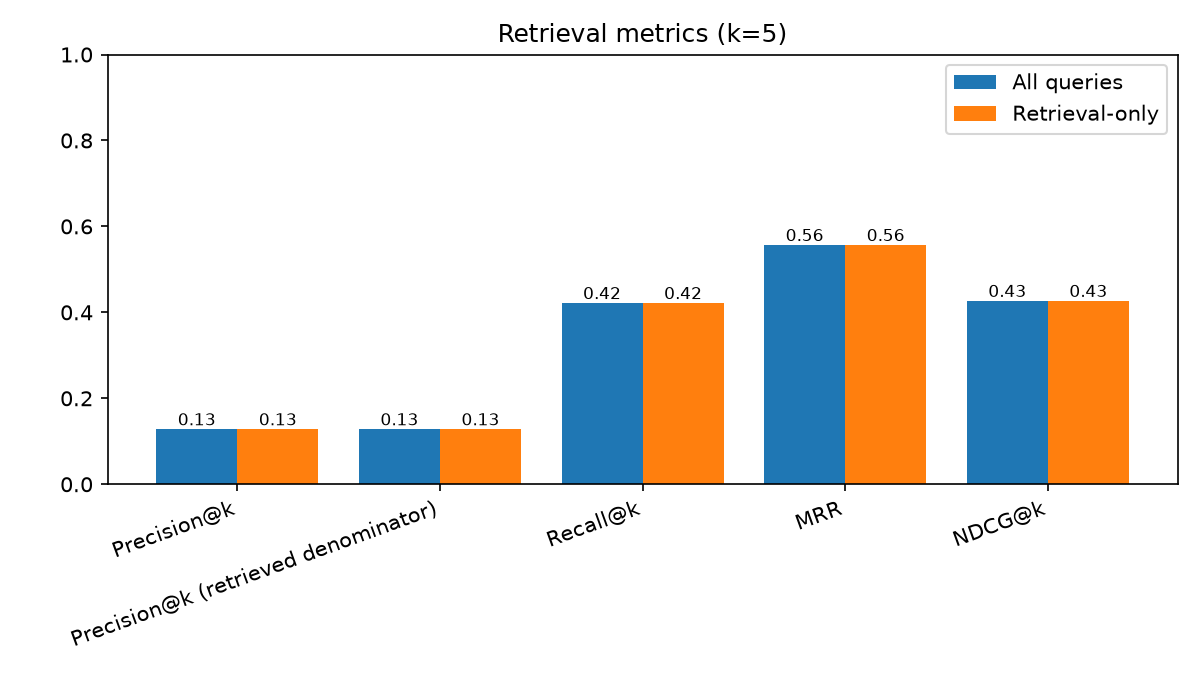
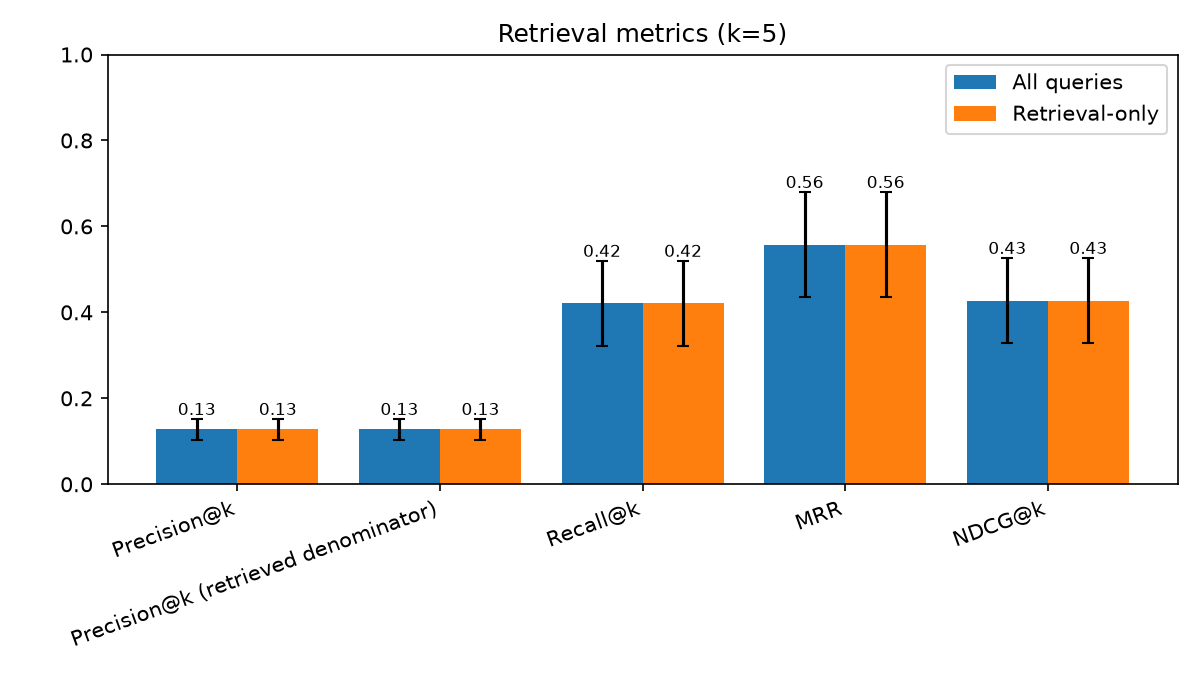
chore(results): add bootstrap CIs to full 50-question run
Recomputed via `cleantech-rag report --recompute` from the existing run log; no API calls.

diff --git a/results/summary_20261028T192319.md b/results/summary_20261028T192319.md
@@ -19,34 +19,36 @@
 - n_retrieval_used: 50
 - n_no_gold: 0
 
+Cells show `mean [low, high]`: 95% percentile bootstrap over questions (1000 resamples, seed 0).
+
 ## Retrieval (k=5)
 
 | Metric | All queries (n=50) | Retrieval-only (n=50) |
 |---|---|---|
-| Precision@k | 0.128 | 0.128 |
-| Precision@k (retrieved denominator) | 0.128 | 0.128 |
-| Recall@k | 0.422 | 0.422 |
-| MRR | 0.557 | 0.557 |
-| NDCG@k | 0.427 | 0.427 |
+| Precision@k | 0.128 [0.104, 0.152] | 0.128 [0.104, 0.152] |
+| Precision@k (retrieved denominator) | 0.128 [0.104, 0.152] | 0.128 [0.104, 0.152] |
+| Recall@k | 0.422 [0.322, 0.520] | 0.422 [0.322, 0.520] |
+| MRR | 0.557 [0.437, 0.680] | 0.557 [0.437, 0.680] |
+| NDCG@k | 0.427 [0.328, 0.527] | 0.427 [0.328, 0.527] |
 
 ## Response quality
 
 | Metric | Mean |
 |---|---|
-| ROUGE-1 | 0.278 |
-| ROUGE-2 | 0.073 |
-| ROUGE-L | 0.150 |
-| BLEU | 0.024 |
-| Semantic similarity | 0.771 |
+| ROUGE-1 | 0.278 [0.266, 0.291] |
+| ROUGE-2 | 0.073 [0.065, 0.081] |
+| ROUGE-L | 0.150 [0.143, 0.158] |
+| BLEU | 0.024 [0.020, 0.029] |
+| Semantic similarity | 0.771 [0.752, 0.789] |
 
 ## LLM judge (1-5)
 
 | Criterion | Mean |
 |---|---|
-| Relevance | 5.00 |
-| Accuracy | 4.84 |
-| Completeness | 4.98 |
-| Clarity | 5.00 |
-| Overall | 4.96 |
+| Relevance | 5.00 [5.00, 5.00] |
+| Accuracy | 4.84 [4.74, 4.94] |
+| Completeness | 4.98 [4.94, 5.00] |
+| Clarity | 5.00 [5.00, 5.00] |
+| Overall | 4.96 [4.92, 4.98] |
 
 Scored 50 of 50; failed 0, pending 0.
